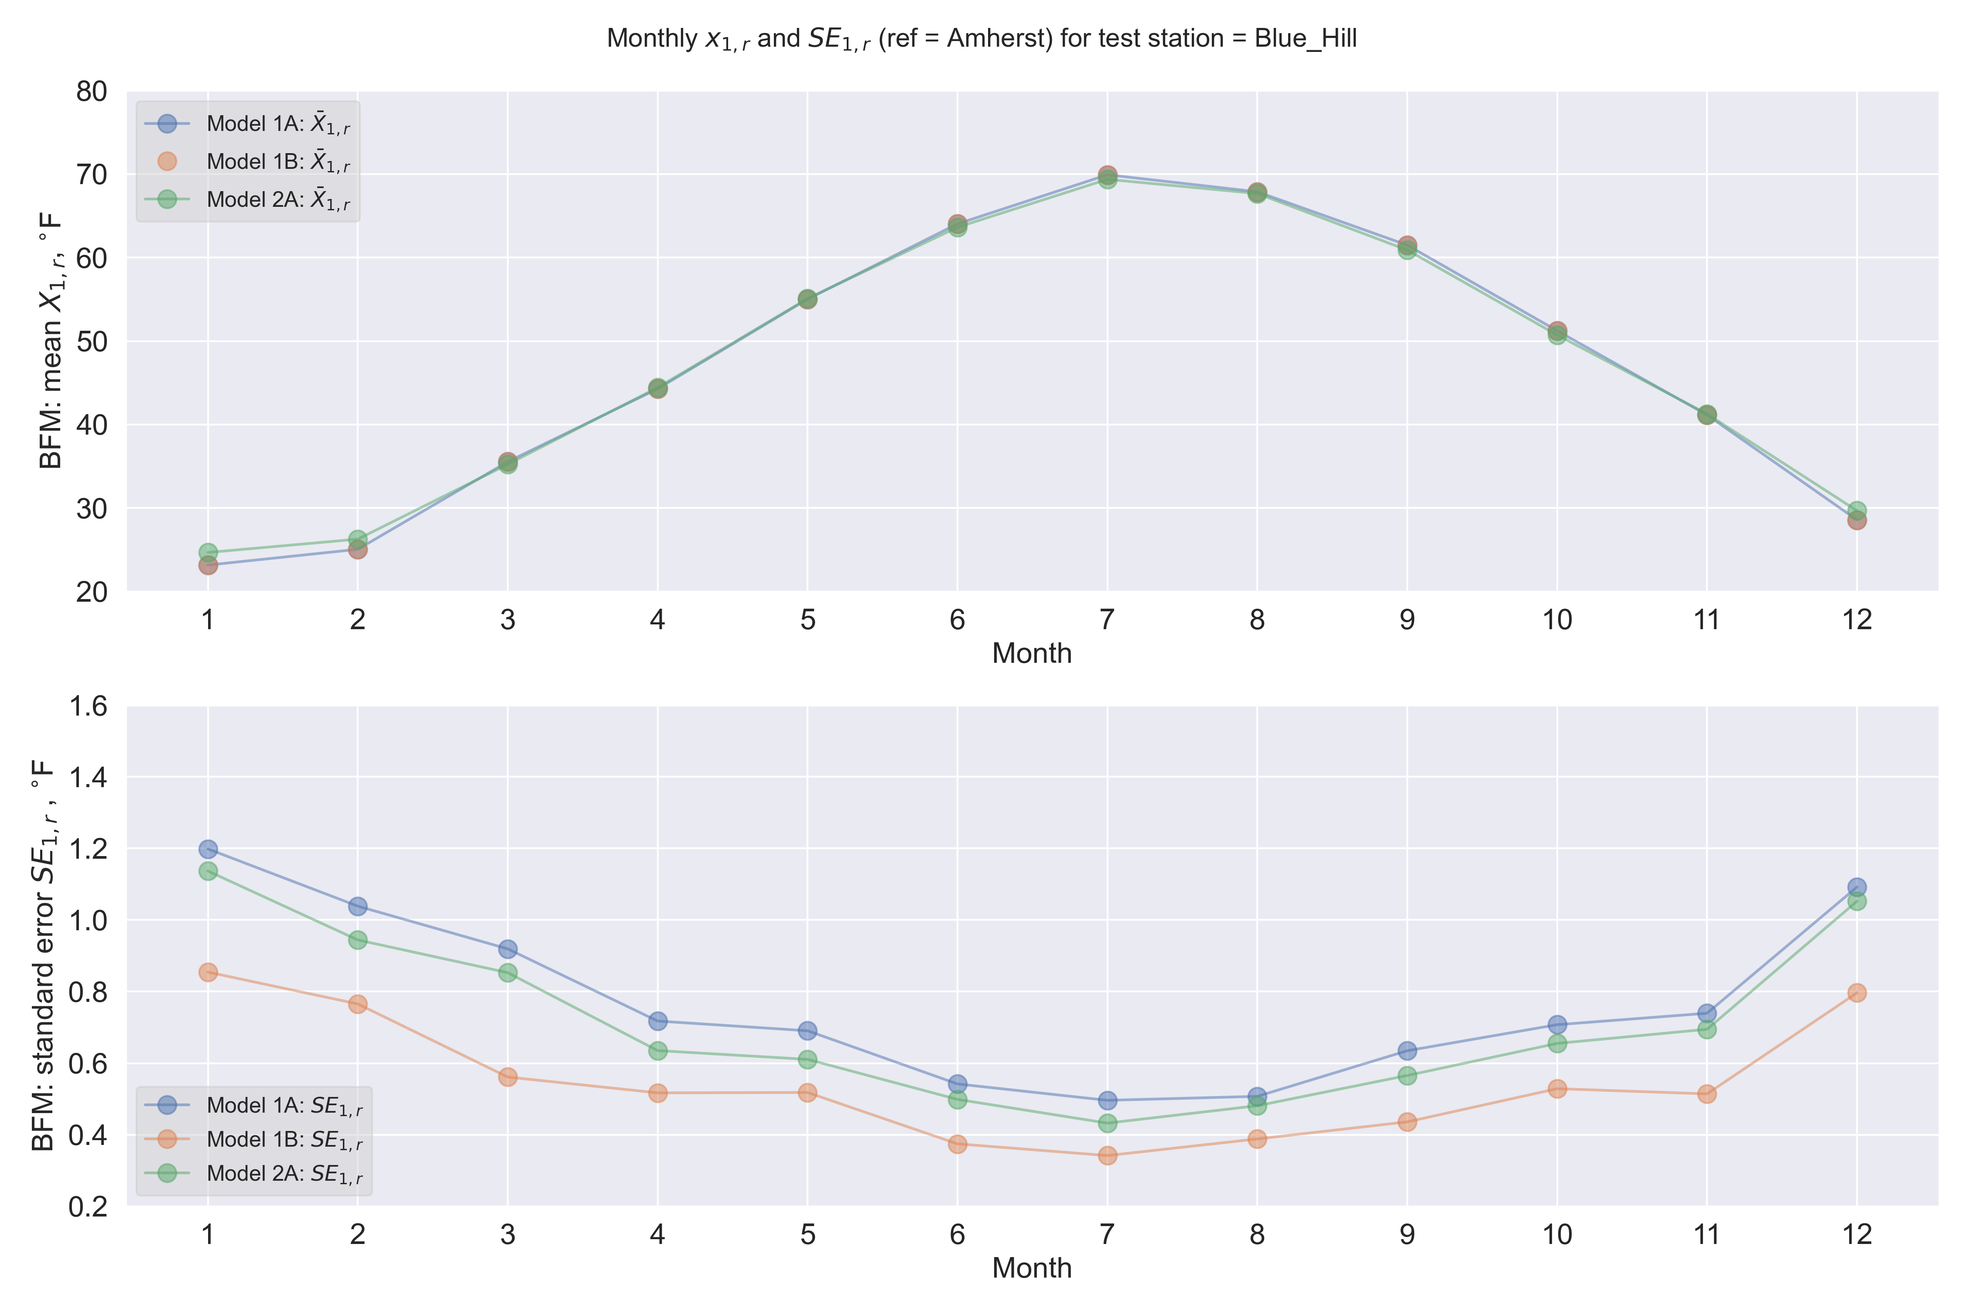
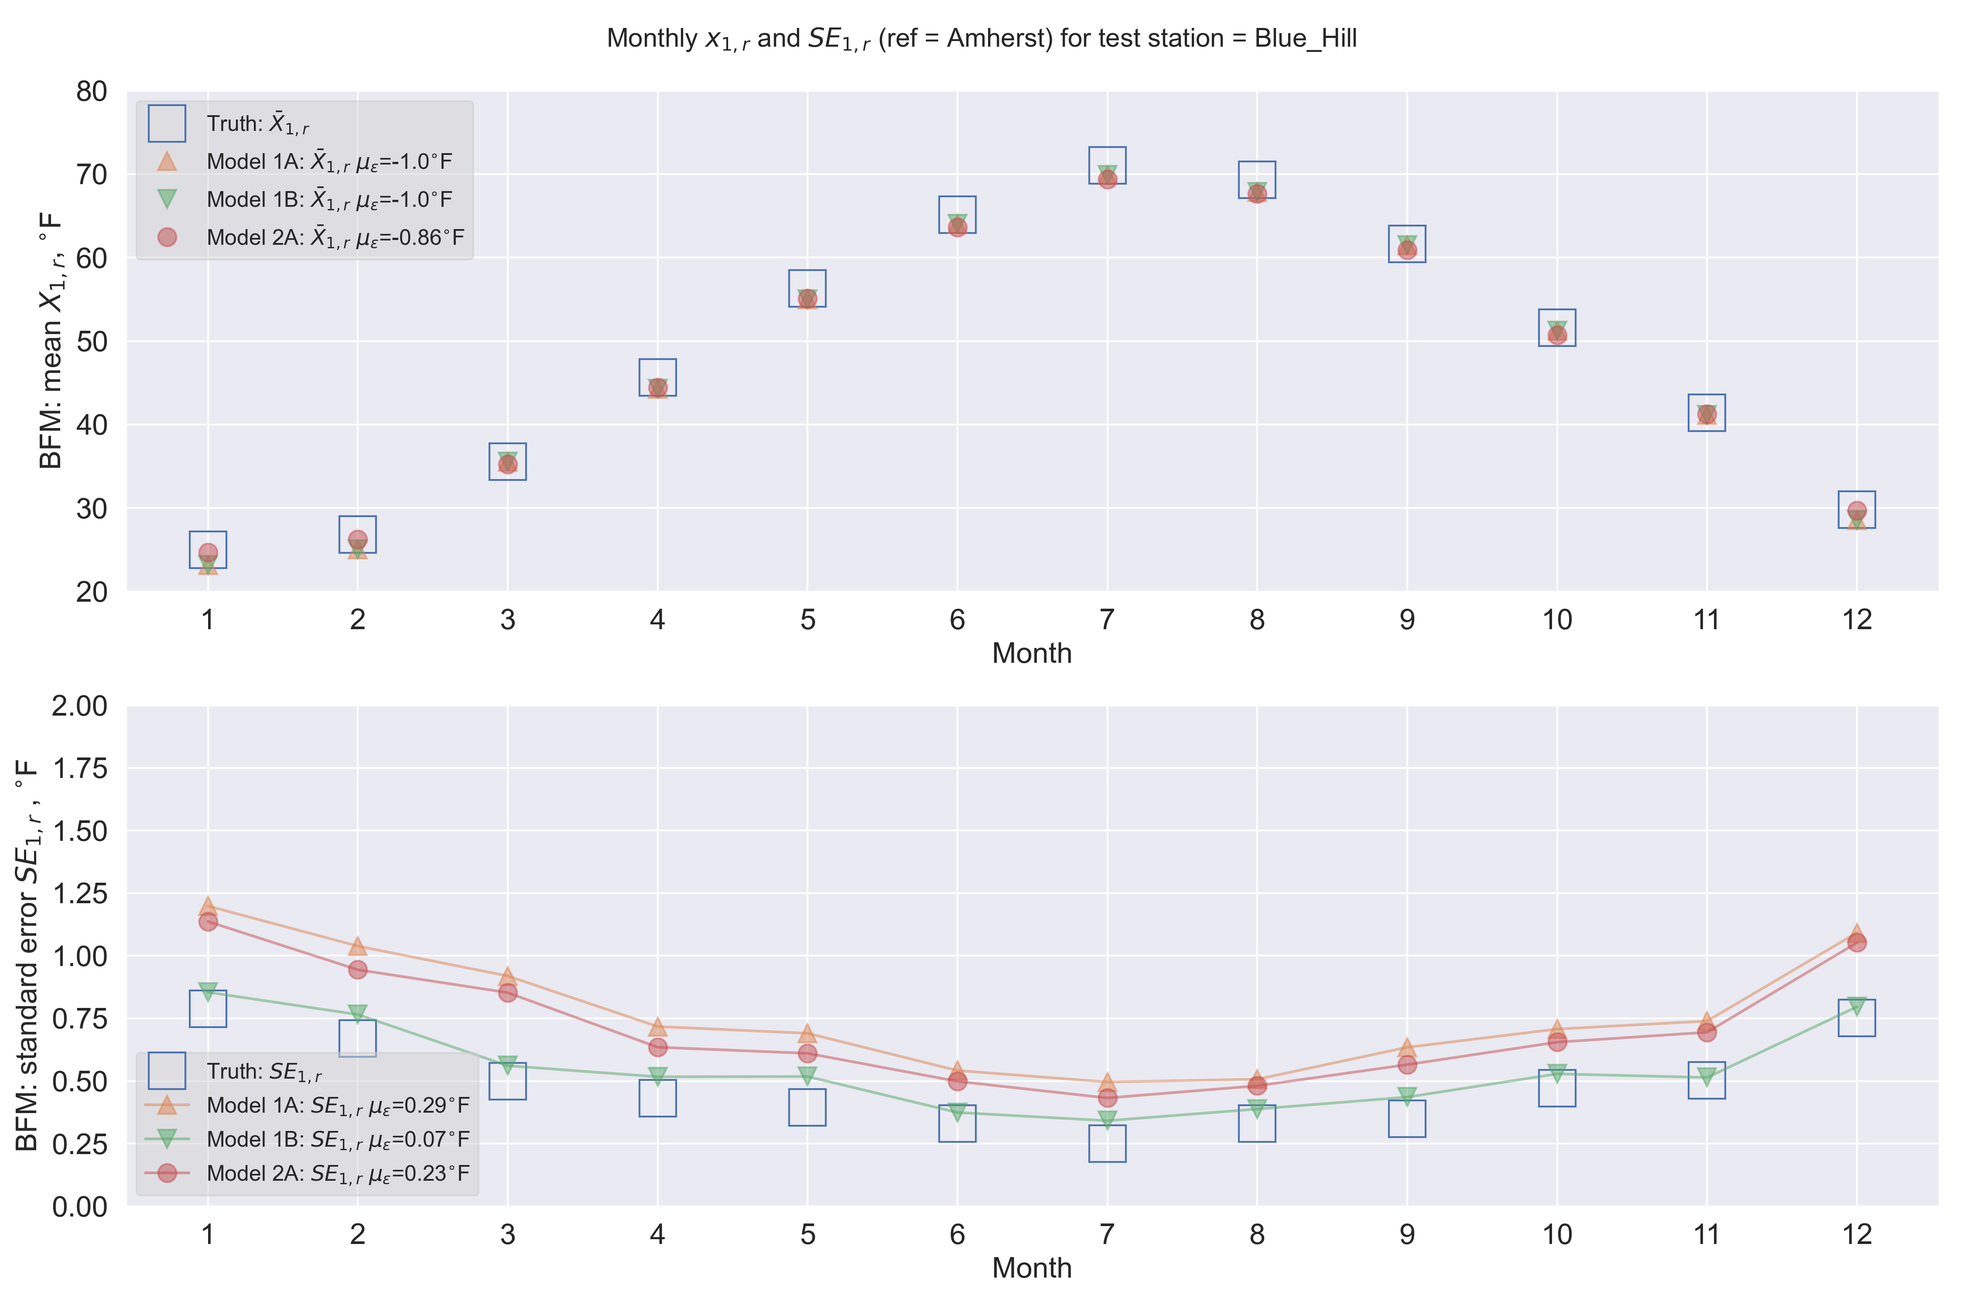
Updated README and regenerated plots

diff --git a/best-fit-means.py b/best-fit-means.py
@@ -333,7 +333,7 @@ df_normal = df[ (df.index>=normal_start) & (df.index<=normal_end) ]
 #------------------------------------------------------------------------------
 
 test_station = 'blue_hill'
-ref_station = 'west_medway'
+ref_station = 'amherst'
 
 df_ref_station = df[ref_station]
 df_ref_station_segment = df_segment[ref_station]
@@ -348,6 +348,18 @@ df_neighbours_mean = df_neighbours.mean(axis=1)
 df_neighbours_mean_segment = df_neighbours_segment.mean(axis=1)
 df_neighbours_mean_normal = df_neighbours_normal.mean(axis=1)
 
+# CALCULATE: expected 'true' monthly means from test station
+
+r1 = df_test_station_normal
+x1r_truth = []
+SE1r_truth = []
+for i in range(12):
+    
+    x1r = np.nanmean( r1[r1.index.month==(i+1)] )    
+    x1r_truth.append(x1r)
+    SE1r = np.nanstd( r1[r1.index.month==(i+1)] ) / np.sqrt( np.isfinite(r1[r1.index.month==(i+1)]).sum() )   
+    SE1r_truth.append(SE1r)
+    
 #------------------------------------------------------------------------------
 # MODEL 1: CASE 1A & CASE 1B: single reference: x1=test_station, x2=BHO (referemce_station)
 #------------------------------------------------------------------------------
@@ -372,16 +384,56 @@ x1r_CASE_2A, x1r_CASE_2B, SE1r_CASE_2A, SE1r_CASE_2B = calculate_normals_and_SEs
 x1r_CASE_2A_normal = pd.Series(np.tile(x1r_CASE_2A, reps=30), index=r2.index)
 x1r_CASE_2B_normal = pd.Series(np.tile(x1r_CASE_2B, reps=30), index=r2.index)
 
-if use_correlated == True:
+if use_correlated == True: # (default)
     x1r_CASE_1_normal = x1r_CASE_1B_normal
     x1r_CASE_2_normal = x1r_CASE_2B_normal
 else:
     x1r_CASE_1_normal = x1r_CASE_1A_normal
     x1r_CASE_2_normal = x1r_CASE_2A_normal    
 
+#------------------------------------------------------------------------------
+# STATISTICS: model versus truth monthly mean errors
+#------------------------------------------------------------------------------
+
+error_x1r_CASE_1A = np.nanmean( np.array(x1r_CASE_1A) - np.array(x1r_truth) )
+error_x1r_CASE_1B = np.nanmean( np.array(x1r_CASE_1B) - np.array(x1r_truth) )
+error_x1r_CASE_2A = np.nanmean( np.array(x1r_CASE_2A) - np.array(x1r_truth) )
+error_SE1r_CASE_1A = np.nanmean( np.array(SE1r_CASE_1A) - np.array(SE1r_truth) )
+error_SE1r_CASE_1B = np.nanmean( np.array(SE1r_CASE_1B) - np.array(SE1r_truth) )
+error_SE1r_CASE_2A = np.nanmean( np.array(SE1r_CASE_2A) - np.array(SE1r_truth) )
+
+X_1 = df_test_station.rolling(nsmooth,center=True).mean()                                           # BHO
+X_1a = X_1[ (X_1.index>=segment_start) & (X_1.index<=segment_end) ]                                 # BHO (segment)
+X_1r_truth = X_1[ (X_1.index>=normal_start) & (X_1.index<=normal_end) ]                             # BHO (normal) truth
+X_1r_estimate_CASE_1 = X_1r_truth + ( np.nanmean( x1r_CASE_1_normal ) - np.nanmean( X_1r_truth ) )  # BHO (normal) estimate (CASE_1)
+X_2_CASE_1 = df_ref_station.rolling(nsmooth,center=True).mean()                                     # single neighbour
+X_2a_CASE_1 = X_2_CASE_1[ (X_2_CASE_1.index>=segment_start) & (X_2_CASE_1.index<=segment_end) ]     # single neighbour (segment)
+X_2r_CASE_1 = X_2_CASE_1[ (X_2_CASE_1.index>=normal_start) & (X_2_CASE_1.index<=normal_end) ]       # single neighbour (normal)            
+error_CASE_1 = X_1r_estimate_CASE_1[0] -  X_1r_truth[0]                                             # error relative to expected true normal
+
+X_1 = df_test_station.rolling(nsmooth,center=True).mean()                                           # BHO
+X_1a = X_1[ (X_1.index>=segment_start) & (X_1.index<=segment_end) ]                                 # BHO (segment)
+X_1r_truth = X_1[ (X_1.index>=normal_start) & (X_1.index<=normal_end) ]                             # BHO (normal) truth
+X_1r_estimate_CASE_2 = X_1r_truth + ( np.nanmean( x1r_CASE_2_normal ) - np.nanmean( X_1r_truth ) )  # BHO (normal) estimate (CASE_2)
+X_2_CASE_2 = df_neighbours_mean.rolling(nsmooth,center=True).mean()                                 # All neighbours mean
+X_2a_CASE_2 = X_2_CASE_2[ (X_2_CASE_2.index>=segment_start) & (X_2_CASE_2.index<=segment_end) ]     # All neighbours mean (segment)
+X_2r_CASE_2 = X_2_CASE_2[ (X_2_CASE_2.index>=normal_start) & (X_2_CASE_2.index<=normal_end) ]       # All neighbours mean (normal)
+error_CASE_2 = X_1r_estimate_CASE_2[0] -  X_1r_truth[0]                                             # error relative to expected true normal
+
+df_errors = pd.DataFrame({
+    'ref_station':ref_station, 
+    'test_station':test_station, 
+    'error_x1r_CASE_1A':error_x1r_CASE_1A,
+    'error_x1r_CASE_1B':error_x1r_CASE_1B,
+    'error_x1r_CASE_2A':error_x1r_CASE_2A,
+    'error_SE1r_CASE_1A':error_SE1r_CASE_1A,
+    'error_SE1r_CASE_1B':error_SE1r_CASE_1B,
+    'error_SE1r_CASE_2A':error_SE1r_CASE_2A,    
+     }, index=[0])
+    
 #==============================================================================
 
-if plot_monthly == True:
+if plot_monthly == True: # one plot per ref_station
     
     # PLOT: monthly normals and standard errors
     
@@ -391,18 +443,20 @@ if plot_monthly == True:
     titlestr = r'Monthly $x_{1,r}$ and $SE_{1,r}$ (ref = ' + ref_station.title() + ') for test station = ' + test_station.title()
     
     fig, axs = plt.subplots(2,1, figsize=(15,10))
-    axs[0].plot(x1r_CASE_1A, marker='o', markersize=10, alpha=0.5, label=r'Model 1A: $\bar{X}_{1,r}$')
-    axs[0].plot(x1r_CASE_1B, marker='o', markersize=10, ls='None', alpha=0.5, label=r'Model 1B: $\bar{X}_{1,r}$')
-    axs[0].plot(x1r_CASE_2A, marker='o', markersize=10, alpha=0.5, label=r'Model 2A: $\bar{X}_{1,r}$')
+    axs[0].plot(x1r_truth, marker='s', markersize=20, fillstyle='none', linestyle='none', label=r'Truth: $\bar{X}_{1,r}$')
+    axs[0].plot(x1r_CASE_1A, marker='^', markersize=10, alpha=0.5, linestyle='none', label=r'Model 1A: $\bar{X}_{1,r}$ $\mu_{\epsilon}$=' + str(np.round(error_x1r_CASE_1A,2)) + '$^{\circ}$' + temperature_unit) 
+    axs[0].plot(x1r_CASE_1B, marker='v', markersize=10, alpha=0.5, linestyle='none', label=r'Model 1B: $\bar{X}_{1,r}$ $\mu_{\epsilon}$=' + str(np.round(error_x1r_CASE_1B,2)) + '$^{\circ}$' + temperature_unit) 
+    axs[0].plot(x1r_CASE_2A, marker='o', markersize=10, alpha=0.5, linestyle='none', label=r'Model 2A: $\bar{X}_{1,r}$ $\mu_{\epsilon}$=' + str(np.round(error_x1r_CASE_2A,2)) + '$^{\circ}$' + temperature_unit) 
     axs[0].set_xticks(np.arange(0,12))
     axs[0].set_xticklabels(np.arange(1,13))
     axs[0].tick_params(labelsize=fontsize)    
     axs[0].set_xlabel('Month', fontsize=fontsize)
     axs[0].set_ylabel(r'BFM: mean $X_{1,r}$, $^{\circ}$' + temperature_unit, fontsize=fontsize)
     axs[0].legend(loc='upper left', ncol=1, markerscale=1, facecolor='lightgrey', framealpha=0.5, fontsize=12)            
-    axs[1].plot(SE1r_CASE_1A, marker='o', markersize=10, alpha=0.5, label=r'Model 1A: $SE_{1,r}$')
-    axs[1].plot(SE1r_CASE_1B, marker='o', markersize=10, alpha=0.5, label=r'Model 1B: $SE_{1,r}$')
-    axs[1].plot(SE1r_CASE_2A, marker='o', markersize=10, alpha=0.5, label=r'Model 2A: $SE_{1,r}$')
+    axs[1].plot(SE1r_truth, marker='s', markersize=20, fillstyle='none', linestyle='none', label=r'Truth: $SE_{1,r}$')
+    axs[1].plot(SE1r_CASE_1A, marker='^', markersize=10, alpha=0.5, label=r'Model 1A: $SE_{1,r}$ $\mu_{\epsilon}$=' + str(np.round(error_SE1r_CASE_1A,2)) + '$^{\circ}$' + temperature_unit) 
+    axs[1].plot(SE1r_CASE_1B, marker='v', markersize=10, alpha=0.5, label=r'Model 1B: $SE_{1,r}$ $\mu_{\epsilon}$=' + str(np.round(error_SE1r_CASE_1B,2)) + '$^{\circ}$' + temperature_unit)
+    axs[1].plot(SE1r_CASE_2A, marker='o', markersize=10, alpha=0.5, label=r'Model 2A: $SE_{1,r}$ $\mu_{\epsilon}$=' + str(np.round(error_SE1r_CASE_2A,2)) + '$^{\circ}$' + temperature_unit)
     axs[1].sharex(axs[0]) 
     axs[1].set_xticks(np.arange(0,12))
     axs[1].set_xticklabels(np.arange(1,13))
@@ -412,7 +466,7 @@ if plot_monthly == True:
     axs[1].legend(loc='lower left', ncol=1, markerscale=1, facecolor='lightgrey', framealpha=0.5, fontsize=12)            
     if use_fahrenheit == True:
         axs[0].set_ylim(20,80)
-        axs[1].set_ylim(0.2,1.6)
+        axs[1].set_ylim(0,2)
     else:
         ax.set_xlim(-20,40)
         ax.set_ylim(0,0.05)    
@@ -421,35 +475,25 @@ if plot_monthly == True:
     plt.savefig(figstr, dpi=300)
     plt.close('all')
 
-if plot_fit_model_1 == True:
+if plot_fit_model_1 == True: # one plot per ref_station
     
-    X_1 = df_test_station.rolling(nsmooth,center=True).mean()                                        # BHO
-    X_1a = X_1[ (X_1.index>=segment_start) & (X_1.index<=segment_end) ]                              # BHO (segment)
-    X_1r_truth = X_1[ (X_1.index>=normal_start) & (X_1.index<=normal_end) ]                          # BHO (normal) truth
-    X_1r_estimate = X_1r_truth + ( np.nanmean( x1r_CASE_1_normal ) - np.nanmean( X_1r_truth ) )     # BHO (normal) estimate
-    X_2 = df_ref_station.rolling(nsmooth,center=True).mean()                                         # single neighbour
-    X_2a = X_2[ (X_2.index>=segment_start) & (X_2.index<=segment_end) ]                              # single neighbour (segment)
-    X_2r = X_2[ (X_2.index>=normal_start) & (X_2.index<=normal_end) ]                                # single neighbour (normal)            
-    error = X_1r_estimate[0] -  X_1r_truth[0]
-
     print('plotting MODEL 1 (single neighbour) Xr vs Xa ...')
         
     figstr = 'model-1-fit' + '-' + test_station + '-' + ref_station + '.png'
     titlestr = 'Model fit: $X_{r}$ vs $X_{a}$ (ref = ' + ref_station.title() + ') for test station = ' + test_station.title()
         
     fig, axs = plt.subplots(figsize=(15,10))
-#   axs.plot(df[ref_station].index, df[ref_station].rolling(nsmooth,center=True).mean().ewm(span=nsmooth, adjust=True).mean(), marker='.', color='lightgrey', alpha=1.0, label='$T_{g}$ ' + ref_station)
     axs.plot(X_1.index, X_1, marker='.', color='lightgrey', alpha=1, label='$T_{g}$ ' + test_station)
-    axs.plot(X_2a.index, X_2a, marker='.', color='lightblue', alpha=1, label='$X_{2,a}$ ' + ref_station + ' (segment)')
-    axs.plot(X_2r.index, X_2r, marker='.', color='pink', alpha=1, label='$X_{2,r}$ ' + ref_station + ' (1961-1990)')
+    axs.plot(X_2a_CASE_1.index, X_2a_CASE_1, marker='.', color='lightblue', alpha=1, label='$X_{2,a}$ ' + ref_station + ' (segment)')
+    axs.plot(X_2r_CASE_1.index, X_2r_CASE_1, marker='.', color='pink', alpha=1, label='$X_{2,r}$ ' + ref_station + ' (1961-1990)')
     axs.plot(X_1a.index, X_1a, marker='.', color='blue', alpha=1, label='$X_{1,a}$ ' + test_station + ' (segment)')
     axs.plot(X_1r_truth.index, X_1r_truth, marker='.', color='red', alpha=1, label='$X_{1,r}$ ' + test_station + ' (1961-1990) truth')
-    axs.plot(X_1r_truth.index, X_1r_estimate, marker='.', color='k', alpha=1, label='$X_{1,r}$ ' + test_station + ' (1961-1990) estimate: $\epsilon$=' + str(np.round(error,2)) + '$^{\circ}$' + temperature_unit)   
-    axs.plot(X_2a.index, len(X_2a)*[ np.nanmean( X_2a ) ], ls='--', lw=2, color='lightblue', alpha=1)            
-    axs.plot(X_2r.index, len(X_2r)*[ np.nanmean( X_2r ) ], ls='--', lw=2, color='pink', alpha=1)            
+    axs.plot(X_1r_truth.index, X_1r_estimate_CASE_1, marker='.', color='k', alpha=1, label='$X_{1,r}$ ' + test_station + ' (1961-1990) estimate: $\epsilon$=' + str(np.round(error_CASE_1,2)) + '$^{\circ}$' + temperature_unit)   
+    axs.plot(X_2a_CASE_1.index, len(X_2a_CASE_1)*[ np.nanmean( X_2a_CASE_1 ) ], ls='--', lw=2, color='lightblue', alpha=1)            
+    axs.plot(X_2r_CASE_1.index, len(X_2r_CASE_1)*[ np.nanmean( X_2r_CASE_1 ) ], ls='--', lw=2, color='pink', alpha=1)            
     axs.plot(X_1a.index, len(X_1a)*[ np.nanmean( X_1a ) ], ls='--', lw=2, color='blue', alpha=1)            
     axs.plot(X_1r_truth.index, len(X_1r_truth)*[ np.nanmean( X_1r_truth ) ], ls='--', lw=2, color='red', alpha=1)            
-    axs.plot(X_1r_truth.index, len(X_1r_estimate)*[ np.nanmean( x1r_CASE_1_normal ) ], ls='--', lw=2, color='k', alpha=1)           
+    axs.plot(X_1r_truth.index, len(X_1r_estimate_CASE_1)*[ np.nanmean( x1r_CASE_1_normal ) ], ls='--', lw=2, color='k', alpha=1)           
     axs.legend(loc='upper left', ncol=1, markerscale=1, facecolor='lightgrey', framealpha=0.5, fontsize=12)        
     axs.set_xlabel('Year', fontsize=fontsize)
     axs.set_ylabel(r'Absolute temperature, $^{\circ}$' + temperature_unit, fontsize=fontsize)
@@ -463,40 +507,31 @@ if plot_fit_model_1 == True:
     plt.savefig(figstr, dpi=300)
     plt.close('all')
                  
-if plot_fit_model_2 == True:
-
-    X_1 = df_test_station.rolling(nsmooth,center=True).mean()                                        # BHO
-    X_1a = X_1[ (X_1.index>=segment_start) & (X_1.index<=segment_end) ]                              # BHO (segment)
-    X_1r_truth = X_1[ (X_1.index>=normal_start) & (X_1.index<=normal_end) ]                          # BHO (normal) truth
-    X_1r_estimate = X_1r_truth + ( np.nanmean( x1r_CASE_2_normal ) - np.nanmean( X_1r_truth ) )      # BHO (normal) estimate
-    X_2 = df_neighbours_mean.rolling(nsmooth,center=True).mean()                                     # All neighbours mean
-    X_2a = X_2[ (X_2.index>=segment_start) & (X_2.index<=segment_end) ]                              # All neighbours mean (segment)
-    X_2r = X_2[ (X_2.index>=normal_start) & (X_2.index<=normal_end) ]                                # All neighbours mean (normal)
-    X = df.rolling(nsmooth,center=True).mean()                                                       # All neighbours
-    X_segment = X[ (X.index>=segment_start) & (X.index<=segment_end) ]                               # All neighbours (segment)
-    X_normal = X[ (X.index>=normal_start) & (X.index<=normal_end) ]                                  # All neighbours (normal)
-    error = X_1r_estimate[0] -  X_1r_truth[0]
+if plot_fit_model_2 == True: # one all neighbours plot
     
     print('plotting MODEL 2 (all neighbours) Xr vs Xa ...')
+        
+    X = df.rolling(nsmooth,center=True).mean()                                                          # All neighbours
+    X_segment = X[ (X.index>=segment_start) & (X.index<=segment_end) ]                                  # All neighbours (segment)
+    X_normal = X[ (X.index>=normal_start) & (X.index<=normal_end) ]                                     # All neighbours (normal)
         
     figstr = 'model-2-fit' + '-' + test_station + '-' + 'all-neighbours' + '.png'
     titlestr = 'Model fit: $X_{r}$ vs $X_{a}$ (ref = all neighbours) for test station = ' + test_station.title()
         
     fig, axs = plt.subplots(figsize=(15,10))
-#   axs.plot(df[ref_station].index, df[ref_station].rolling(nsmooth,center=True).mean().ewm(span=nsmooth, adjust=True).mean(), marker='.', color='lightgrey', alpha=1.0, label='$T_{g}$ ' + ref_station)
     axs.plot(X_segment.index, X_segment, marker='.', color='lightblue', alpha=1)
     axs.plot(X_normal.index, X_normal, marker='.', color='pink', alpha=1)
     axs.plot(X_1.index, X_1, marker='.', color='lightgrey', alpha=1, label='$T_{g}$ ' + test_station)
-    axs.plot(X_2a.index, X_2a, marker='.', color='teal', alpha=1, label='$X_{2,a}$ all neighbours mean (segment)')
-    axs.plot(X_2r.index, X_2r, marker='.', color='purple', alpha=1, label='$X_{2,r}$ all neighbours mean (1961-1990)')
+    axs.plot(X_2a_CASE_2.index, X_2a_CASE_2, marker='.', color='teal', alpha=1, label='$X_{2,a}$ all neighbours mean (segment)')
+    axs.plot(X_2r_CASE_2.index, X_2r_CASE_2, marker='.', color='purple', alpha=1, label='$X_{2,r}$ all neighbours mean (1961-1990)')
     axs.plot(X_1a.index, X_1a, marker='.', color='blue', alpha=1, label='$X_{1,a}$ ' + test_station + ' (segment)')
     axs.plot(X_1r_truth.index, X_1r_truth, marker='.', color='red', alpha=1, label='$X_{1,r}$ ' + test_station + ' (1961-1990) truth')    
-    axs.plot(X_1r_truth.index, X_1r_estimate, marker='.', color='k', alpha=1, label='$X_{1,r}$ ' + test_station + ' (1961-1990) estimate: $\epsilon$=' + str(np.round(error,2)) + '$^{\circ}$' + temperature_unit)    
-    axs.plot(X_2a.index, len(X_2a)*[ np.nanmean( X_2a ) ], ls='--', lw=2, color='teal', alpha=1)            
-    axs.plot(X_2r.index, len(X_2r)*[ np.nanmean( X_2r ) ], ls='--', lw=2, color='purple', alpha=1)            
+    axs.plot(X_1r_truth.index, X_1r_estimate_CASE_2, marker='.', color='k', alpha=1, label='$X_{1,r}$ ' + test_station + ' (1961-1990) estimate: $\epsilon$=' + str(np.round(error_CASE_2,2)) + '$^{\circ}$' + temperature_unit)    
+    axs.plot(X_2a_CASE_2.index, len(X_2a_CASE_2)*[ np.nanmean( X_2a_CASE_2 ) ], ls='--', lw=2, color='teal', alpha=1)            
+    axs.plot(X_2r_CASE_2.index, len(X_2r_CASE_2)*[ np.nanmean( X_2r_CASE_2 ) ], ls='--', lw=2, color='purple', alpha=1)            
     axs.plot(X_1a.index, len(X_1a)*[ np.nanmean( X_1a ) ], ls='--', lw=2, color='blue', alpha=1)            
     axs.plot(X_1r_truth.index, len(X_1r_truth)*[ np.nanmean( X_1r_truth ) ], ls='--', lw=2, color='red', alpha=1)            
-    axs.plot(X_1r_truth.index, len(X_1r_estimate)*[ np.nanmean( x1r_CASE_2_normal ) ], ls='--', lw=2, color='k', alpha=1)           
+    axs.plot(X_1r_truth.index, len(X_1r_estimate_CASE_2)*[ np.nanmean( x1r_CASE_2_normal ) ], ls='--', lw=2, color='k', alpha=1)           
     axs.legend(loc='upper left', ncol=1, markerscale=1, facecolor='lightgrey', framealpha=0.5, fontsize=12)        
     axs.set_xlabel('Year', fontsize=fontsize)
     axs.set_ylabel(r'Absolute temperature, $^{\circ}$' + temperature_unit, fontsize=fontsize)
@@ -513,4 +548,5 @@ if plot_fit_model_2 == True:
 #------------------------------------------------------------------------------
 print('** END')
 
+# axs.plot(df.index, df.rolling(nsmooth,center=True).mean().ewm(span=nsmooth, adjust=True).mean(), marker='.', color='lightgrey', alpha=1.0, label=label)
 

diff --git a/README.md b/README.md
@@ -1,10 +1,14 @@
+![image](https://github.com/patternizer/glosat-best-fit-means/blob/master/model-1-fit-blue_hill-blue_hill.png)
+![image](https://github.com/patternizer/glosat-best-fit-means/blob/master/models-monthly-normals-sterr-CASE-1A-1B-2A-blue_hill-blue_hill.png)
+
 # glosat-best-fit-means
 
 Python codebase for construction of optimal baseline normals from neighbouring station timeseries overlaps. Part of ongoing work for the [GloSAT](https://www.glosat.org) project: www.glosat.org 
 
 ## Contents
 
-* `best-fit-means.py` - python script to read in absolute land surface air temperature timeseries and estimate a baseline normal for short segments based on best fit means.
+* `best-fit-means.py` - python script to read in land surface air temperature timeseries and estimate a baseline normal for short segments based on best fit mean models using a reference station timeseries.
+* `best-fit-means-auto.py` - loop over list of neighbouring reference stations and store model errors.
 
 ## Instructions for use
 
